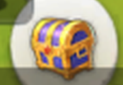
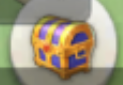
Matcher threshold tweaks: AFK chest timer, hospital state
- afk_rewards: DEFAULT_THRESHOLD 0.06 -> 0.07; re-aligned chest_timer_4k.png.
- hospital_state_matcher: minor adjustment.

diff --git a/utils/afk_rewards_matcher.py b/utils/afk_rewards_matcher.py
@@ -34,7 +34,7 @@ class AfkRewardsMatcher:
     CLICK_Y = 1709
 
     TEMPLATE_NAME = "chest_timer_4k.png"
-    DEFAULT_THRESHOLD = 0.06
+    DEFAULT_THRESHOLD = 0.07
 
     def __init__(self, threshold: float | None = None, debug_dir: Any = None) -> None:
         # debug_dir ignored - kept for backward compatibility

diff --git a/utils/hospital_state_matcher.py b/utils/hospital_state_matcher.py
@@ -59,6 +59,7 @@ class HospitalStateMatcher:
         "yellow_soldier_barrack_v4_4k.png",
         "yellow_soldier_barrack_v5_4k.png",
         "yellow_soldier_barrack_v6_4k.png",
+        "yellow_soldier_barrack_v7_4k.png",  # Lv10 head: gold visored helmet + red plume
     ]
 
     def __init__(self) -> None: